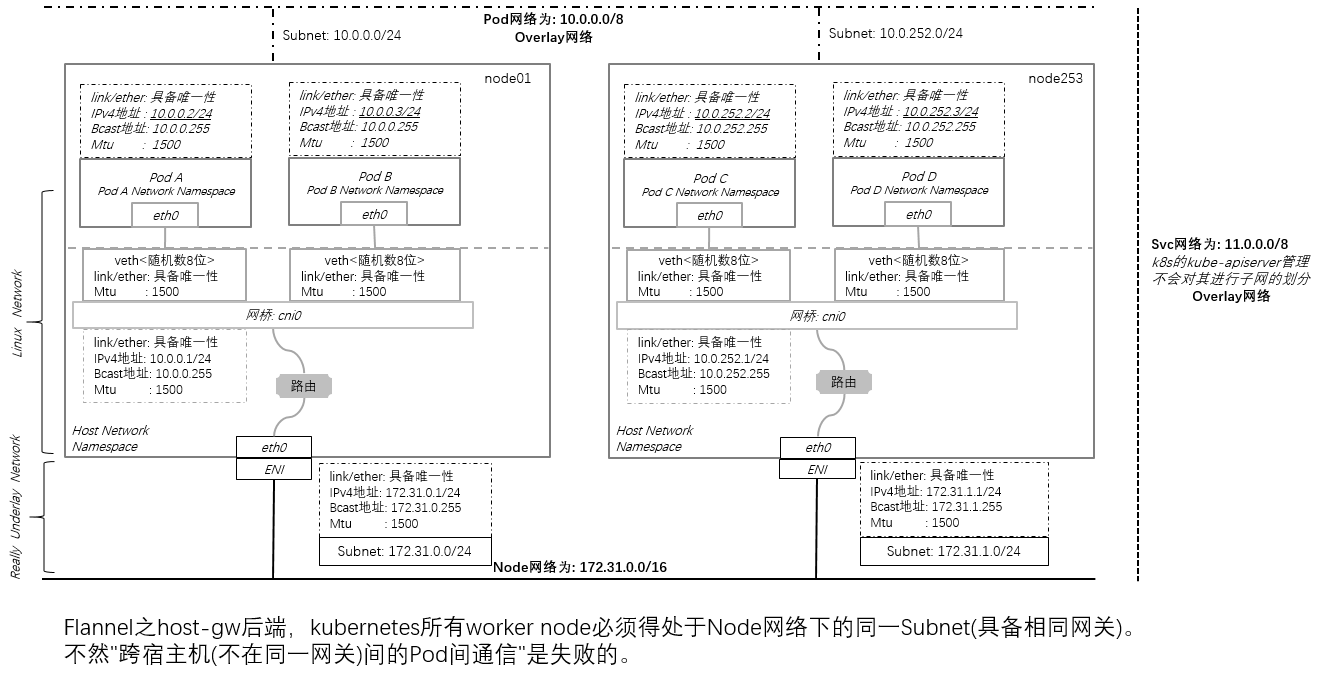
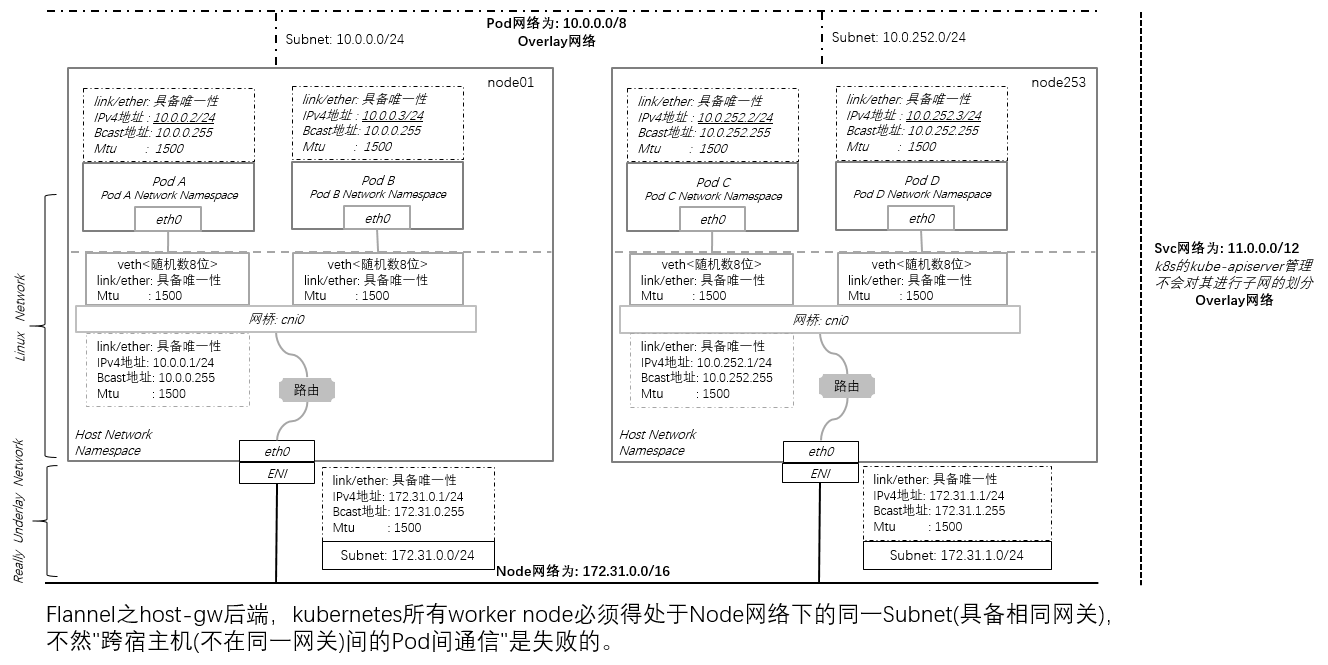
modified

diff --git a/90.Addons/01.cni/01.flannel/01.host-gw/install-step-and-describe.md b/90.Addons/01.cni/01.flannel/01.host-gw/install-step-and-describe.md
@@ -72,41 +72,100 @@ Destination     Gateway         Genmask         Flags Metric Ref    Use Iface
 <br>
 
 
-
-
-
 # 2.Flannel之host-gw的安装步骤
-## 2.1 下载manifests
+## 2.1 k8s集群的相关规划引入
+<image src="./picture/flannel-host-gw-plan-install.jpg" style="width: 100%; height: auto;">
+
 ```
-## 在线可读
+## Node网络：172.31.0.0/16
+  它是物理网络。underlay。
+
+  交换机B-172-31-20-0-24：172.31.20.0/24
+    etcd01  172.31.20.1
+    etcd02  172.31.20.2
+    etcd03  172.31.20.3
+  交换机H-172-31-0-0-24： 172.31.0.0/24
+    master01  172.31.0.1   # <== 会部署worker node相关组件
+    master02  172.31.0.2   # <== 会部署worker node相关组件
+    master03  172.31.0.3   # <== 会部署worker node相关组件
+  交换机I-172-31-1-0-24： 172.31.1.0/24
+    node01    172.31.1.1
+    node02    172.31.1.2
+    node03    172.31.1.3
+
+## Pod网络：10.0.0.0/8
+   它是个虚拟网络。overlay。
+   kubernetes的kube-controller-manager组件实例
+     --cluster-cidr参数指定值为10.0.0.0/8
+     --node-cidr-mask-size参数指定值为24
+        会按24位网络地址分配subnet,给到worker nodes,
+        我们可以kubectl describe nodes <NodeName> 看其PodCIDRS:字段
+
+## Svc网络：11.0.0.0/12
+   它是个虚拟网络。overlay。网络地址得 >=12，不然kube-apiserver启动报错
+   在k8s中被称为cluster network。
+   集群中DNS应用(Pod)对应的svc使用的ClusterIP地址为：11.0.0.2
+   集群中DNS的Domain为：cluster.local
+```
+
+## 2.2 k8s各Worker Node当前状态为NotReady
+当前只把k8s的基本框架部署好了，就等着部署第一个addons之CNI插件了，部署好CNI插件后， 
+k8s的各Worker Node状态就会Ready，但不代表"Pod间的通信"就一定正常，你得知道怎么去测试。
+```
+root@deploy:~# kubectl get nodes
+NAME       STATUS                     ROLES    AGE   VERSION
+master01   NotReady,SchedulingDisabled   master   14d   v1.24.4
+master02   NotReady,SchedulingDisabled   master   14d   v1.24.4
+master03   NotReady,SchedulingDisabled   master   14d   v1.24.4
+node01     NotReady                      node     14d   v1.24.4
+node02     NotReady                      node     14d   v1.24.4
+node03     NotReady                      node     14d   v1.24.4
+```
+kube-controller-manager组件从Pod网络给各worker node分配的PodCIDRs信息为如下所示:
+```
+root@deploy:~# kubectl describe nodes | grep -E "Name:|PodCIDRs:"
+Name:               master01
+PodCIDRs:                     10.0.0.0/24
+Name:               master02
+PodCIDRs:                     10.0.1.0/24
+Name:               master03
+PodCIDRs:                     10.0.2.0/24
+Name:               node01
+PodCIDRs:                     10.0.3.0/24
+Name:               node02
+PodCIDRs:                     10.0.4.0/24
+Name:               node03
+PodCIDRs:                     10.0.5.0/24
+```
+
+## 2.3 k8s中安装CNI插件Flannel host-gw 
+**下载manifests**
+```
+#### 在线可读
 https://github.com/flannel-io/flannel/blob/v0.22.3/Documentation/kube-flannel.yml
 
-## 下载
+#### 下载
 wget https://raw.githubusercontent.com/flannel-io/flannel/refs/tags/v0.22.3/Documentation/kube-flannel.yml
 ls -l kube-flannel.yml
 ```
 
-## 2.2 修改manifests
-**查看所用的ns资源对象**
+**修改manifests**
 ```
+#### 查看所用的ns资源对象
 grep "namespace:"  kube-flannel.yml
   #
   # 结果是 ns/kube-flannel 对象
   # 
-```
 
-**检查是否有所用ns资源对象的manifests**
-```
+#### 检查是否有所用ns资源对象的manifests
 grep "^kind: Namespace" kube-flannel.yml
   #
   # 是有的
   # 这里就不剥离了
   #
-```
 
-**替换镜像**
-```
-## 所用的image
+#### 替换镜像
+# <== 所用的image
 root@deploy:~# grep "image:" kube-flannel.yml
         image: docker.io/flannel/flannel-cni-plugin:v1.2.0
         image: docker.io/flannel/flannel:v0.22.3
@@ -117,50 +176,47 @@ root@deploy:~# grep "docker.io" kube-flannel.yml
         image: docker.io/flannel/flannel:v0.22.3
         image: docker.io/flannel/flannel:v0.22.3
 
-
-## 把镜像放在自己的镜像仓库中
+# <== 把镜像放在自己的镜像仓库中
 我已将相关镜像放在我个人的镜像仓库中并公开（pull时不用认证）。
 swr.cn-north-1.myhuaweicloud.com/qepyd/flannel-cni-plugin:v1.2.0
 swr.cn-north-1.myhuaweicloud.com/qepyd/flannel:v0.22.3
 
-## 替换镜像的相关命令
+# <== 替换镜像的相关命令
 sed    's#docker.io/flannel/flannel-cni-plugin:v1.2.0#swr.cn-north-1.myhuaweicloud.com/qepyd/flannel-cni-plugin:v1.2.0#g'   kube-flannel.yml  | grep "image:"
 sed -i 's#docker.io/flannel/flannel-cni-plugin:v1.2.0#swr.cn-north-1.myhuaweicloud.com/qepyd/flannel-cni-plugin:v1.2.0#g'   kube-flannel.yml
 
 sed    's#docker.io/flannel/flannel:v0.22.3#swr.cn-north-1.myhuaweicloud.com/qepyd/flannel:v0.22.3#g'   kube-flannel.yml  | grep "image:"
 sed -i 's#docker.io/flannel/flannel:v0.22.3#swr.cn-north-1.myhuaweicloud.com/qepyd/flannel:v0.22.3#g'   kube-flannel.yml
-```
 
-**configmaps/kube-flannel-cfg对象**
-```
-## data字段中的 net-conf.json 键相关值的更改
-将 "Network": "10.244.0.0/16"  修改成  "Network": "<你k8s所规划的Pod网络>"
+#### configmaps/kube-flannel-cfg对象
+# <== data字段中的 net-conf.json 键相关值的更改
+将 "Network": "10.244.0.0/16"  修改成  "Network": "10.0.0.0/8"
 将 "Type": "vxlan"             修改成  "Type": "host-gw"
 ```
 
-## 2.3 应用manifests
+**应用manifests**
 ```
-## 应用manifests
+#### 应用manifests
 kubectl apply -f kube-flannel.yml  --dry-run=client
 kubectl apply -f kube-flannel.yml
 
-## 列出相关资源对象
+#### 列出相关资源对象
 kubectl get -f kube-flannel.yml
 
-## 检查k8s现有worker node是否处于Ready状态
+#### 检查k8s现有worker node是否处于Ready状态
 kubectl get nodes -o wide
 ```
 
 ## 2.4 测试Pod访问互联网IPv4
 当然k8s的worker node得要能够访问互联网。  
 ```
-https://github.com/qepyd/kubernetes/blob/main/90.Addons/01.cni/ds_client.yaml
+https://github.com/qepyd/kubernetes/blob/main/90.Addons/01.cni/ds_pod-in-container-visit-ipv4.yaml 
 ```
 
 ## 2.5 测试Pod访问互联网FQDN
 **安装coredns**
 ```
-参考 https://github.com/qepyd/kubernetes/tree/main/90.Addons/02.dns
+参考 https://github.com/qepyd/kubernetes/tree/main/90.Addons/02.dns/01.coredns
 ```
 
 **测试Pod访问互联网FQDN**
@@ -169,23 +225,29 @@ https://github.com/qepyd/kubernetes/blob/main/90.Addons/02.dns/ds_pod-in-contain
 ```
 
 ## 2.6 Pod间的通信测试(必要的)
+**创建ClientPod**
+```
+https://github.com/qepyd/kubernetes/blob/main/90.Addons/01.cni/ds_client.yaml
+```
+
 **创建ServerPod**
 ```
 https://github.com/qepyd/kubernetes/blob/main/90.Addons/01.cni/ds_server.yaml
 ```
+
 **宿主机上Pod间的通信**
 ```
 ........是能够通信的。
 ```
 
-**跨宿主机(Node网络下相同subnet)间Pod的通信**
+**跨宿主机(Node网络下相同subnet，L2通信)间Pod的通信**
 ```
 ........是能够通信的。
 ```
 
-**跨宿主机(Node网络下不同subnet)间Pod的通信**
+**跨宿主机(Node网络下不同subnet，L3通信)间Pod的通信**
 ```
-........无法通信的。
+........是能够通信的。
 ```
 <br>
 <br>
